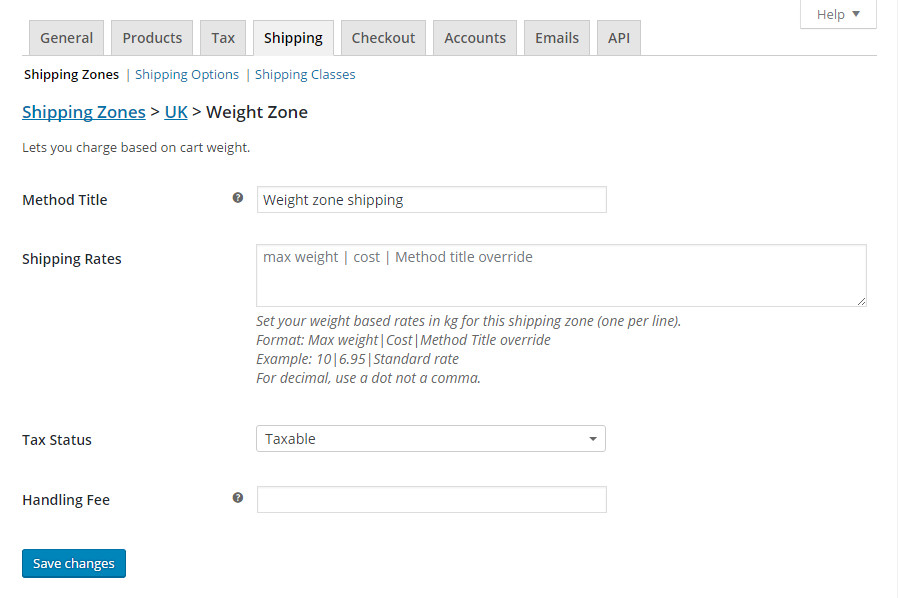
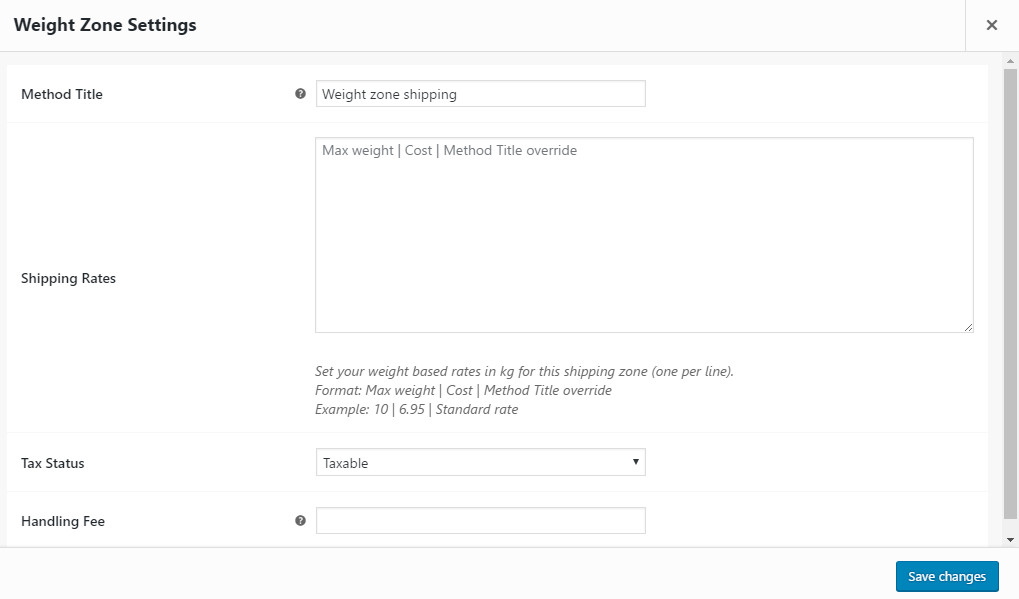
Update screenshots

diff --git a/README.md b/README.md
@@ -47,6 +47,7 @@ Tested with WooCommerce 2.6, WooCommerce 3.0 and higher.
 # What is the separator for the shipping rate table? 
 
 Vertical bars. Blanks around values will be ignored.
+
 ```
 0 | 9.99| Zero weight
 1 | 1.24 |
@@ -54,10 +55,10 @@ Vertical bars. Blanks around values will be ignored.
 3 | 4.56
 ```
 
-- Use of slash characters are no longer supported as these are now allowed in the Method Title override.
-- Whether or not you can use a comma depends on your Currency options.
-- If your Thousand or Decimal separator is a comma then it can't be used as a field delimiter.
-- Enter one rate per line.
+* Use of slash characters are no longer supported as these are now allowed in the Method Title override.
+* Whether or not you can use a comma depends on your Currency options.
+* If your Thousand or Decimal separator is a comma then it can't be used as a field delimiter.
+* Enter one rate per line.
 
 
 # How do I set the Method Title? 
@@ -95,13 +96,11 @@ and [Multi rate weight shipping for WooCommerce FAQ's](https://www.oik-plugins.c
 
 
 ## Screenshots 
-1. Add Shipping Method for Weight zone shipping
-2. Weight zone shipping - initial display
-3. Weight zone shipping rates
-4. Weight zone settings - modal
+1. Add Shipping Method for Weight Zone
+2. Weight Zone Settings - initial display
+3. Weight Zone Settings - shipping rates defined
 5. Cart totals
-6. Checkout shipping rate
-7. WooCommerce > System Status > Tools > Shipping debug mode
+6. Checkout shipping rates
 
 ## Upgrade Notice 
 # 0.1.0 
